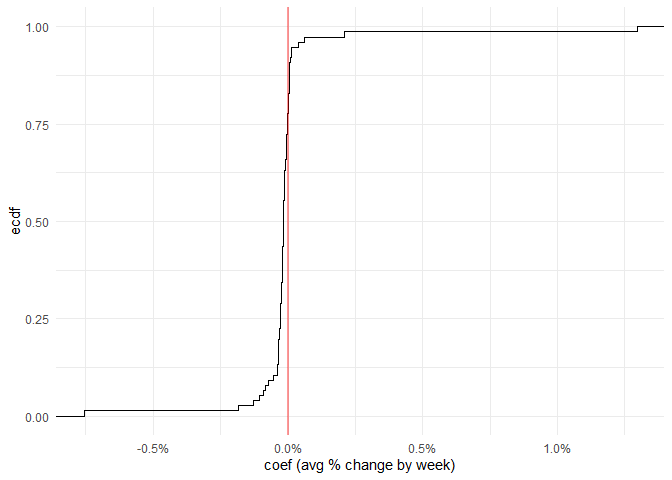
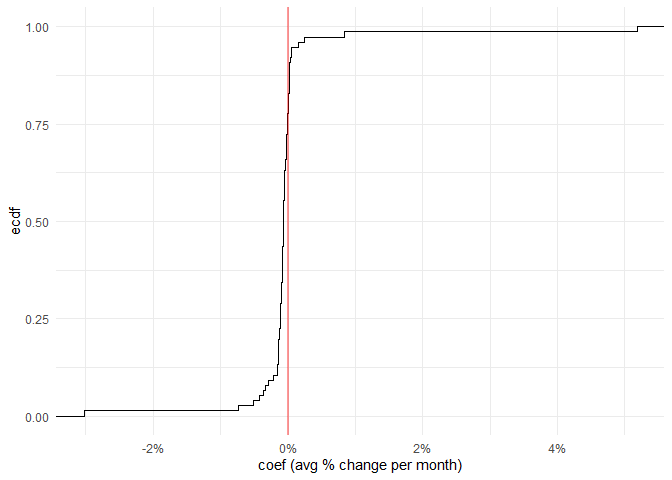
change in coeff definition

Changed region(s): [[0.375, 0.9062, 0.6875, 1.0], [0.1875, 0.9062, 0.25, 0.9688], [0.8125, 0.9062, 0.8438, 0.9688]]

diff --git a/Bradford_analysis.md b/Bradford_analysis.md
@@ -201,7 +201,7 @@ saba_processed <- saba |>
                         \(x) {
                           lm(calc_value ~ day, data = x)
                           }),
-         coef = map_dbl(lm.model,\(x){coef(x)[2]})
+         coef = 4*map_dbl(lm.model,\(x){coef(x)[2]})
   )
 ```
 
@@ -250,12 +250,12 @@ A check of the distribution of the trends
 ``` r
 saba_processed |> 
   ggplot(aes(coef,fill = cut(coef,
-                             breaks = seq(-0.02,0.02,0.0005))))+
-  geom_histogram(breaks =  seq(-0.02,0.02,0.0005))+
+                             breaks = 4*seq(-0.02,0.02,0.0005))))+
+  geom_histogram(breaks =  4*seq(-0.02,0.02,0.0005))+
   theme_minimal()+
   scale_x_continuous(labels = scales::percent)+
   scale_fill_brewer(palette = "RdYlBu",direction = -1)+
-  labs(x = "coef (avg % change by week)")+
+  labs(x = "coef (avg % change per month)")+
   theme(legend.position = "none")
 ```
 
@@ -269,7 +269,7 @@ saba_processed |>
   geom_vline(xintercept = 0,alpha = 0.4,col ="red",linewidth = 1)+
   scale_x_continuous(labels = scales::percent)+
   scale_fill_brewer(palette = "RdYlBu",direction = -1)+
-  labs(x = "coef (avg % change by week)")+
+  labs(x = "coef (avg % change per month)")+
   theme(legend.position = "none")
 ```
 
